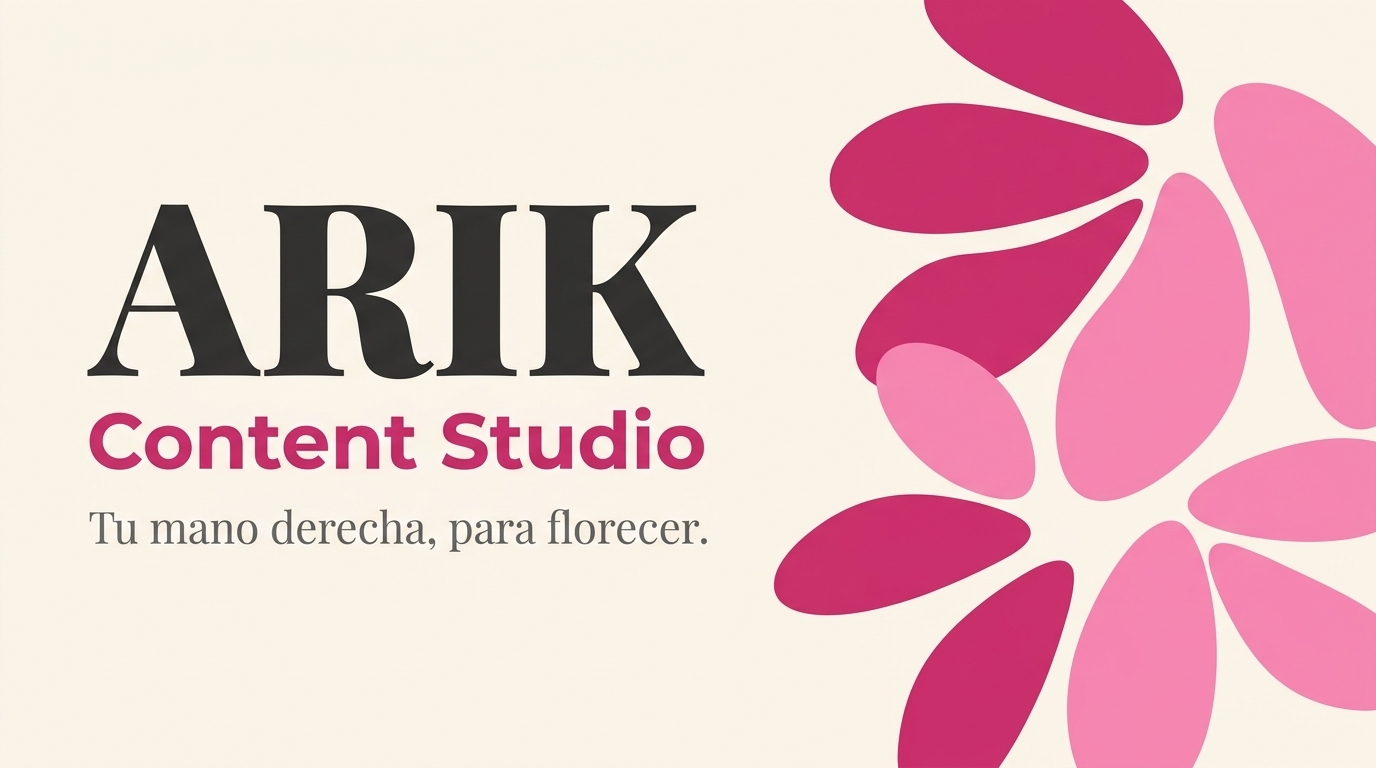
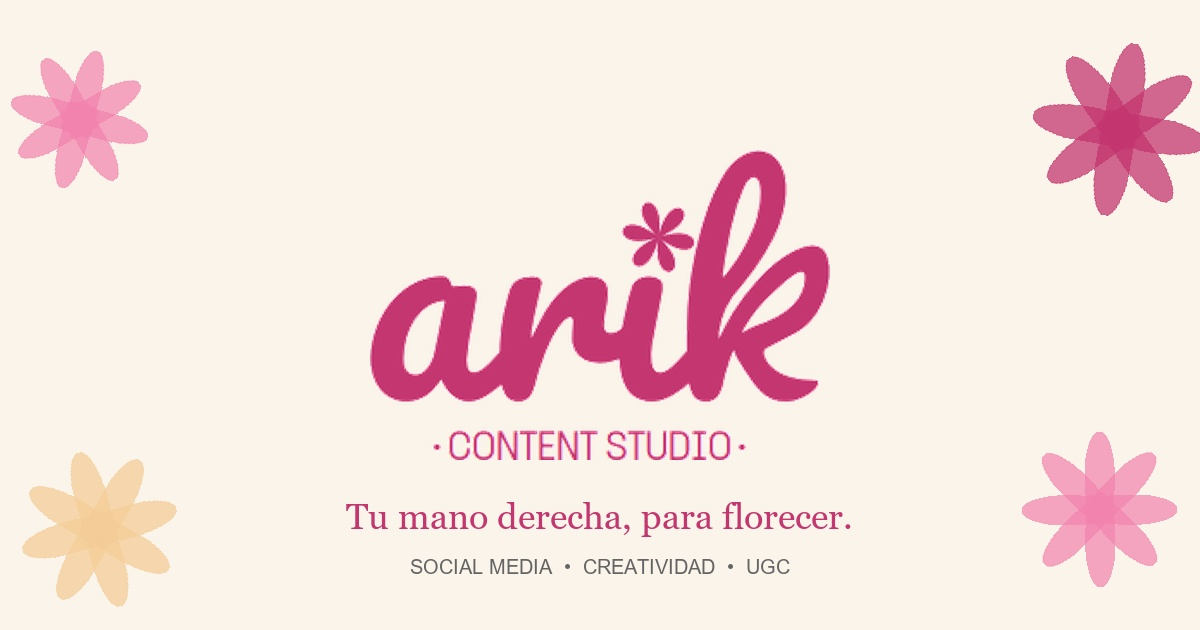
fix(seo): redesign opengraph image with centered safe area for whatsapp square crop

diff --git a/src/app/layout.tsx b/src/app/layout.tsx
@@ -27,8 +27,8 @@ export const metadata: Metadata = {
     images: [
       {
         url: "/opengraph-image.jpg",
-        width: 1400,
-        height: 788,
+        width: 1200,
+        height: 630,
         alt: "ARIK Content Studio — Tu mano derecha, para florecer.",
       },
     ],
